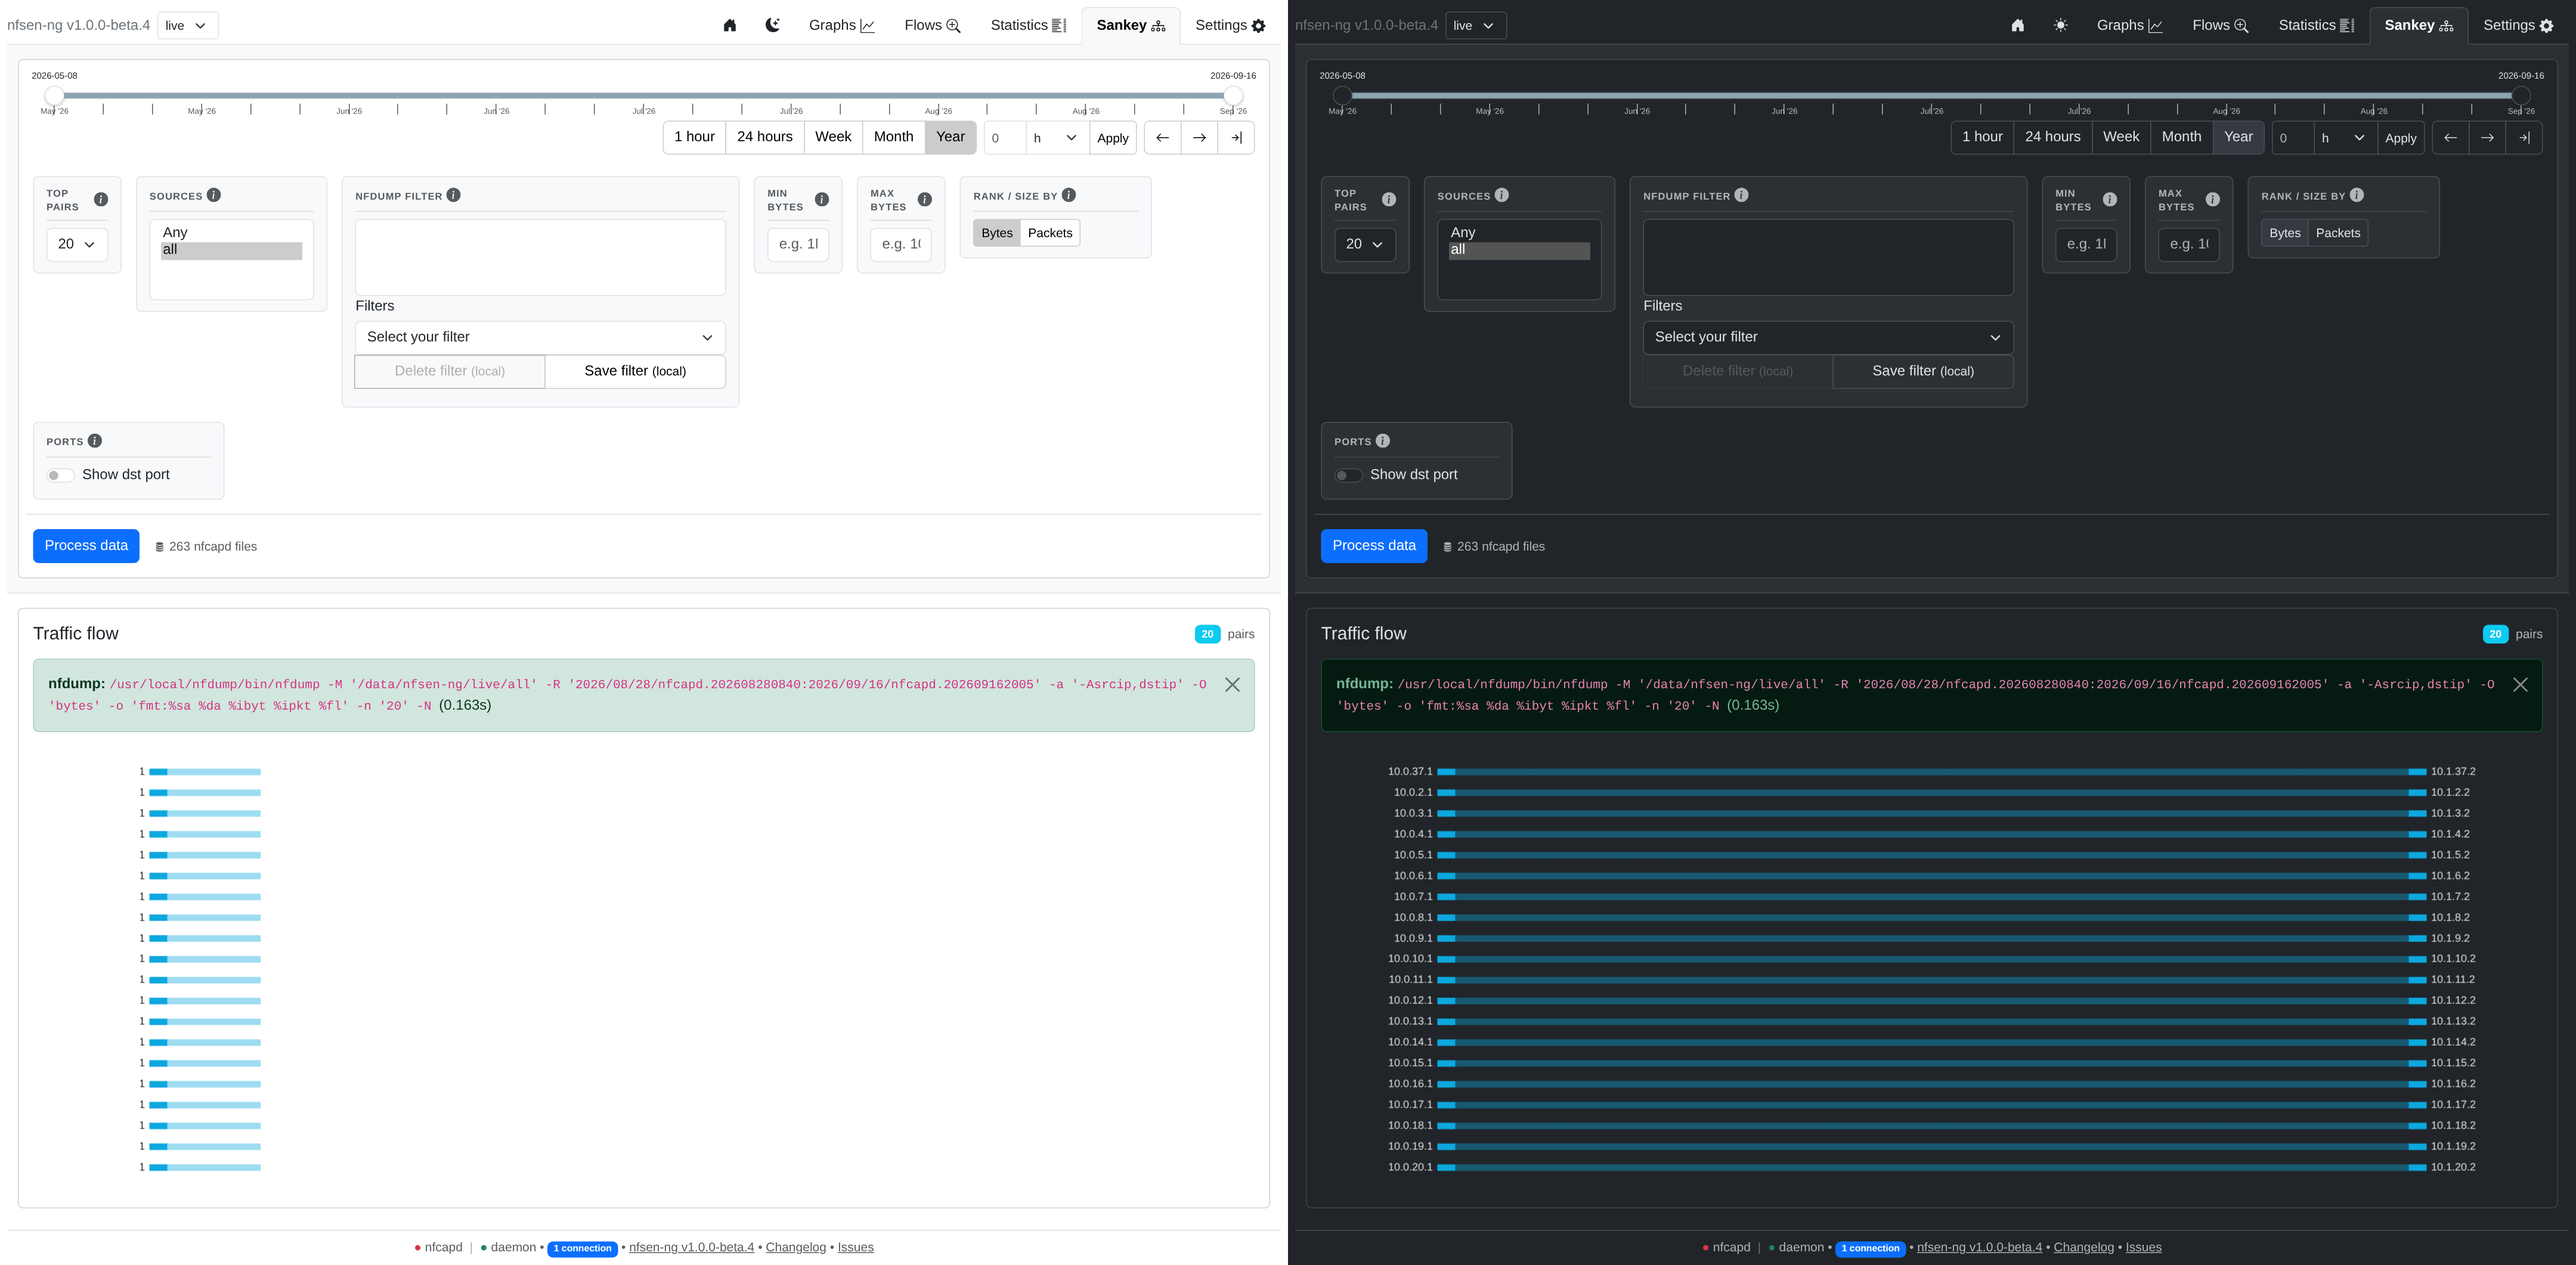
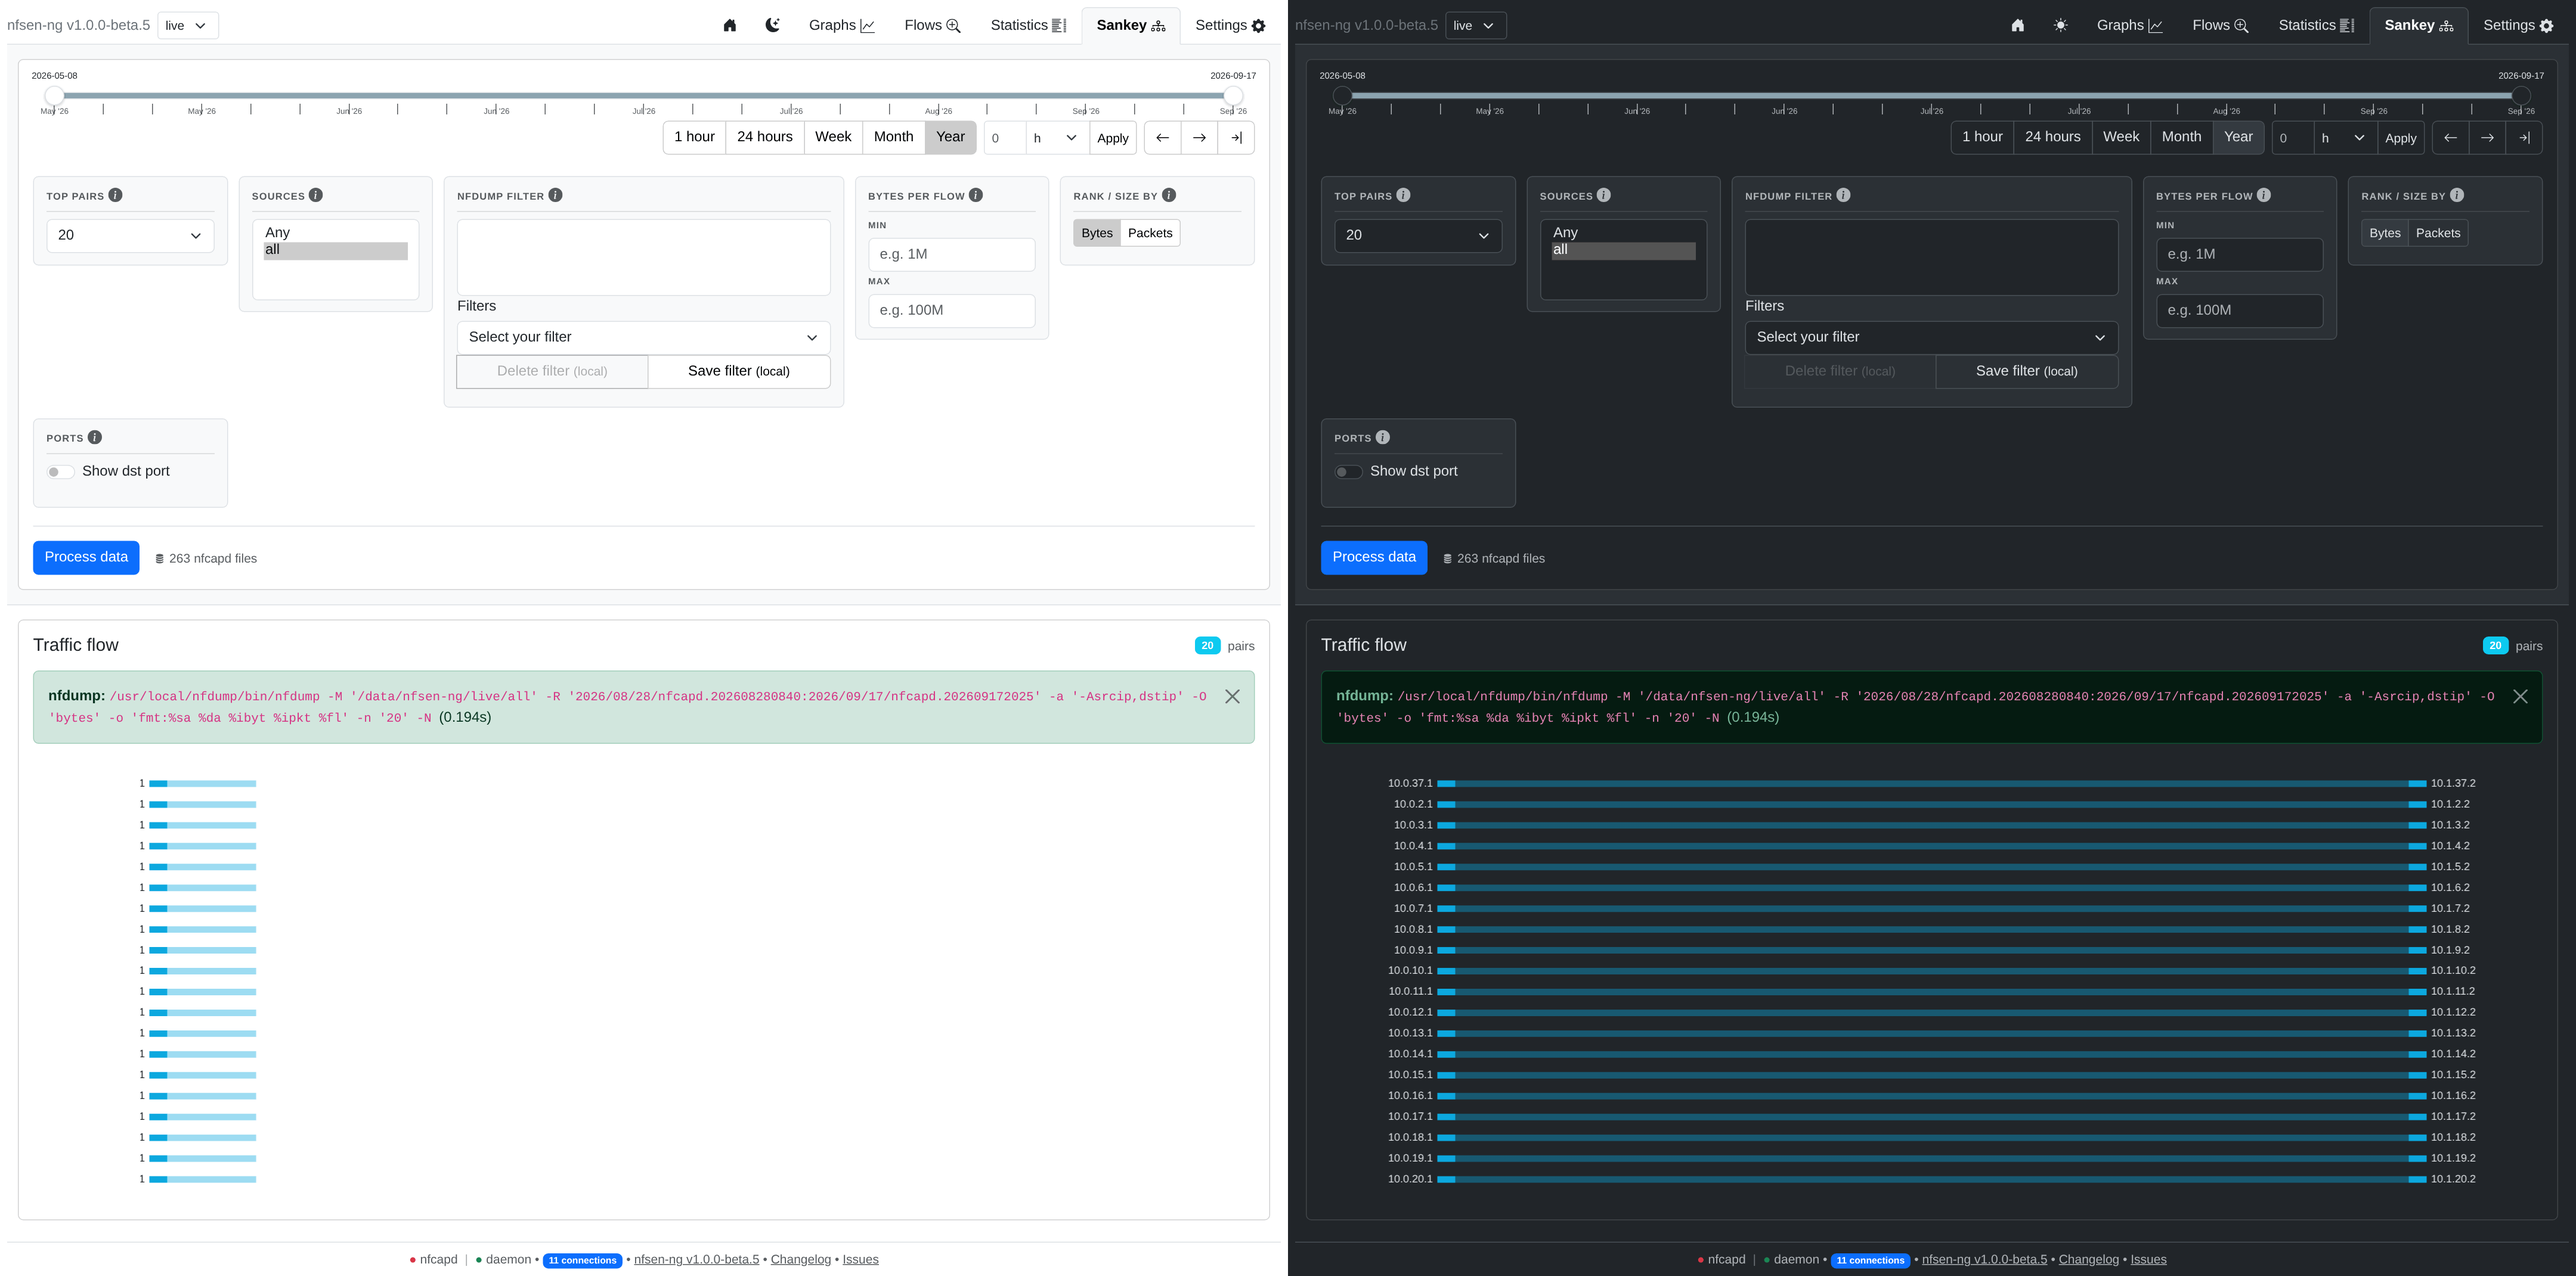
Lay the filter panels out by width, not by breakpoint
Every control carried hand-picked column classes, which is a guess about
how much room it would have, and the guess was wrong in both directions.
Measured across seven widths: at 1100px Sankey's "Top pairs" select was
50px of chevron with the value cut off and the byte inputs read "e.",
while at 1440px a single "Min bytes" field held a whole column; cards in
one row ended at 3 to 6 different heights; and the Statistics panel stood
1448px tall on a phone, leaving Process data three screens down.

Each panel is now a single auto-fit grid. The track count follows the
width that is actually available, so there is one breakpoint left in the
CSS (whether a group may span two tracks) instead of a set per control,
and nothing is squeezed below a readable minimum. Cards sit at a common
minimum height rather than stretched to the tallest in the row, which
aligned them but left a select floating in 250px of empty card.

Min and Max bytes become one card: one setting with two ends, and two
half-empty cards otherwise. Below 768px the controls collapse behind a
toggle, with the submit row deliberately left outside it so a query can
still be run without opening the filters first.

The date-range slider drew both handle times on top of each other
whenever the selection was short against the range, which on a year-wide
slider is every 24-hour view. Close enough together, one label now
carries both ends. That decision lives in the tooltip formatter rather
[…]

diff --git a/frontend/css/nfsen-ng.css b/frontend/css/nfsen-ng.css
@@ -382,7 +382,91 @@ nfsen-daterange .daterange-slider {
     pointer-events: none;
 }
 
+/* With the handles close together one label carries both ends (see
+   nfsen-daterange.js) and the other formats to nothing; an empty tooltip would
+   otherwise still draw its box and border. */
+.noUi-tooltip:empty {
+    display: none;
+}
+
 /* ── Filter panel UX ─────────────────────────────────────────────────────── */
+
+/* One auto-fit grid per panel, instead of per-control Bootstrap columns.
+   Those were a guess at how much room a control would have at some breakpoint,
+   and the guess was wrong in both directions: at 1100px the Sankey "Top pairs"
+   select rendered 50px wide showing nothing but its chevron, while "Min bytes"
+   kept a full column to hold four characters. Here the track count follows the
+   width that is actually there, and nothing drops below a readable minimum. */
+.filter-grid {
+    display: grid;
+    grid-template-columns: repeat(auto-fit, minmax(13.5rem, 1fr));
+    gap: 0.75rem;
+    align-items: start;
+}
+
+/* Groups holding several controls side by side (the nfdump filter, aggregation)
+   take two tracks once the grid has two to give. Spanning is what needs a width
+   test, not the individual controls, so this is the only breakpoint left. */
+@media (min-width: 48em) {
+    .filter-grid > .filter-cell--wide {
+        grid-column: span 2;
+    }
+}
+
+/* Submit and its file count sit below the controls across the whole width. */
+.filter-grid > .filter-submit {
+    grid-column: 1 / -1;
+}
+
+/* Groups that hold several labelled sub-sections (aggregation) lay them out the
+   same way one level down, so a sub-section is never squeezed either: the two IP
+   selects used to render as bare chevrons with the option text cut off. */
+.filter-subgrid {
+    display: grid;
+    grid-template-columns: repeat(auto-fit, minmax(10rem, 1fr));
+    gap: 0.5rem;
+}
+
+.filter-subgrid--tight {
+    grid-template-columns: repeat(auto-fit, minmax(7rem, 1fr));
+    gap: 0.25rem;
+}
+
+/* Controls fill their card. A select left at its intrinsic width is what
+   clipped Sources to "Sou..." whenever its column came out narrow. */
+.filter-group .form-control,
+.filter-group .form-select,
+.filter-group select,
+.filter-group input[type='text'] {
+    width: 100%;
+    min-width: 0;
+}
+
+/* A multi-select grows one row per source, so a deployment with twenty of them
+   pushed everything else off the screen. */
+.filter-group select[multiple] {
+    max-height: 7.5rem;
+    overflow-y: auto;
+}
+
+/* Below this width the panel is taller than the screen (the Statistics one
+   measured 1448px at 414px wide), so the controls collapse behind a toggle and
+   the submit row stays put. The class is inert above it, which leaves resizing
+   to CSS rather than to a measured signal that has to be kept in sync. */
+.filter-toggle {
+    display: none;
+}
+
+@media (max-width: 47.98em) {
+    .filter-toggle {
+        display: inline-flex;
+    }
+
+    .filter-collapsed .filter-grid > .filter-cell {
+        display: none;
+    }
+}
+
 
 /* Allow btn-groups inside narrow filter-group boxes to wrap onto a new line
    instead of overflowing / clipping (e.g. Data Type in col-md-2). */
@@ -414,12 +498,12 @@ nfsen-daterange .daterange-slider {
     padding: 0.75rem 0.875rem;
 }
 
-/* The Statistics tab gives the aggregation controls a row to themselves, where the two
-   groups would otherwise split the full page width and stretch every button to ~20rem. The
-   Flows tab shares the partial but sits in a narrow column, so the cap lives here, not in the
-   partial. */
-.aggregation-wide {
-    max-width: 46rem;
+/* Cards sit at a common minimum height rather than being stretched to the
+   tallest in the row: stretching aligned them but left a single select floating
+   in 250px of empty card next to the nfdump filter. The minimum is what makes a
+   row of one-control groups line up, which is the case that looked ragged. */
+.filter-cell > .filter-group {
+    min-height: 6.25rem;
 }
 
 /* Nested sub-section labels (e.g. Global / Port / IP Aggregation) */

diff --git a/frontend/js/components/nfsen-daterange.js b/frontend/js/components/nfsen-daterange.js
@@ -79,10 +79,33 @@ function buildPipsConfig(minMs, maxMs, el) {
     };
 }
 
-/** Build tooltip formatters for the two handles. */
+/** How close the two handles may get, in pixels, before one label can hold both. */
+const TOOLTIP_MERGE_PX = 90;
+
+/**
+ * Build tooltip formatters for the two handles.
+ *
+ * A short selection on a long range puts the handles within a few pixels of each other, which
+ * on a year-wide slider is every 24-hour view: the two labels then drew on top of each other.
+ * Close enough, and the upper handle's label carries both ends while the lower one renders
+ * empty (hidden in CSS). Deciding it here rather than by moving the elements afterwards is
+ * what makes it stick, since noUiSlider rewrites a tooltip's contents on every update.
+ */
 function buildTooltips(from, to, el) {
     const span = to - from;
-    return [{ to: (v) => formatTooltip(v, span, el) }, { to: (v) => formatTooltip(v, span, el) }];
+    const plain = (v) => formatTooltip(v, span, el);
+
+    const minMs = parseInt(el.getAttribute('data-min') || 0, 10);
+    const maxMs = parseInt(el.getAttribute('data-max') || 0, 10);
+    const width = el.slider?.offsetWidth ?? 0;
+    const range = maxMs - minMs;
+    const apart = range > 0 ? (span / range) * width : Number.POSITIVE_INFINITY;
+
+    if (apart >= TOOLTIP_MERGE_PX) {
+        return [{ to: plain }, { to: plain }];
+    }
+
+    return [{ to: () => '' }, { to: (v) => `${plain(from)} – ${plain(v)}` }];
 }
 
 // ── Web Component ───────────────────────────────────────────────────────────

diff --git a/CHANGELOG.md b/CHANGELOG.md
@@ -7,6 +7,10 @@ Format follows [Keep a Changelog](https://keepachangelog.com/en/1.1.0/).
 
 ### Added
 
+- **The filter panels lay themselves out instead of guessing at breakpoints.** Every control used to carry hand-picked Bootstrap column classes, which were wrong in both directions: at 1100px the Sankey "Top pairs" select rendered 50px wide showing nothing but a chevron and the byte inputs read `e.`, while a single "Min bytes" field kept a whole column on a wide screen, and the cards ended at 3 to 6 different heights per row. Each panel is now one auto-fit grid, so the column count follows the width that is there and no control drops below a readable size. Min and Max bytes share one card, and below 768px the controls collapse behind **Show filters**: the Statistics panel measured 1448px tall on a phone, which put **Process data** three screens below the filters.
+
+- **The date-range slider no longer draws both times on top of each other** when the selection is short against a long range, which on a year-wide slider was every 24-hour view. The left one moves up a line.
+
 - **The Flow Records statistic can be aggregated** ([#174](https://github.com/mbolli/nfsen-ng/issues/174), reported by [@bbaugnies](https://github.com/bbaugnies)). `nfdump -s record` ranks whole flows, so what counts as one flow decides what the ranking means, and the option was not reachable from nfsen-ng at all. The Statistics tab now carries the same aggregation controls as the Flows tab, shown for **Flow Records** only: nfdump applies an aggregation to that statistic alone and answers every other one with `Aggregation ignored for element statistics`.
 
 ### Fixed
